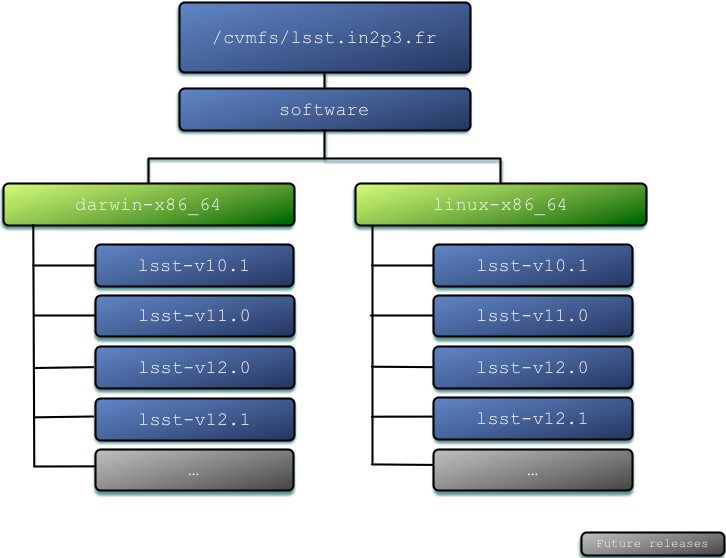
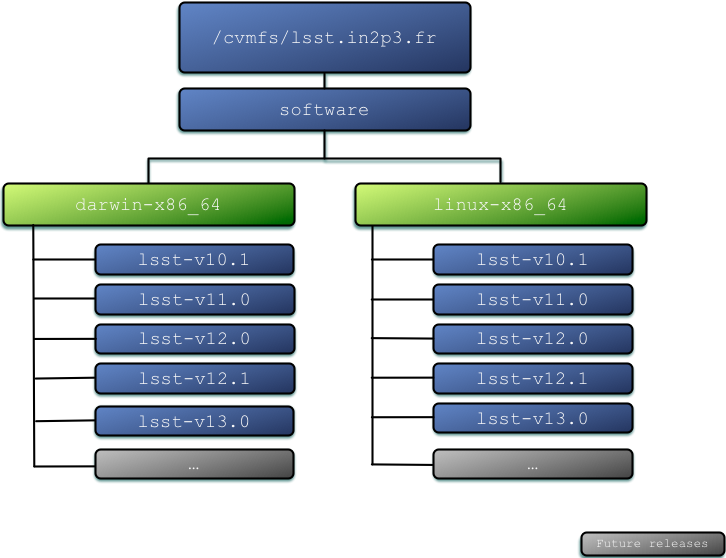
v13.0 now available for Linux

diff --git a/README.md b/README.md
@@ -113,7 +113,7 @@ Once the software is installed and configured in your computer, a one-time proce
 
 In order to use the LSST science pipelines, you need first to bootstrap your environment for a specific version of the LSST software for which a binary distribution is available. For instance, to use LSST `v12.1` on a Linux computer do:
 
-		$ cd /cvmfs/lsst.in2p3.fr/software/linux-x86_64/lsst-v12.1
+		$ cd /cvmfs/lsst.in2p3.fr/software/linux-x86_64/lsst-v13.0
 		$ source loadLSST.bash
 
 Now you are ready to test your installation by [downloading and running the demo project](https://pipelines.lsst.io/install/demo.html#download-the-demo-project).  
@@ -133,7 +133,7 @@ Currently you will find the releases presented in the table below:
 
 | Platform                | Available versions of LSST software |
 | ---------------------   | ----------------------------------- |
-| Linux, x86_64, 64bits   |   `v10.1`, `v11.0`, `v12.0`, `v12.1` |
+| Linux, x86_64, 64bits   |   `v10.1`, `v11.0`, `v12.0`, `v12.1`, `v13.0` |
 | Darwin, x86_64, 64bits  |   `v10.1`, `v11.0`, `v12.0`, `v12.1` |
 
 For details on the platform each binary release was built on please refer to the `README` file in the corresponding directory.
